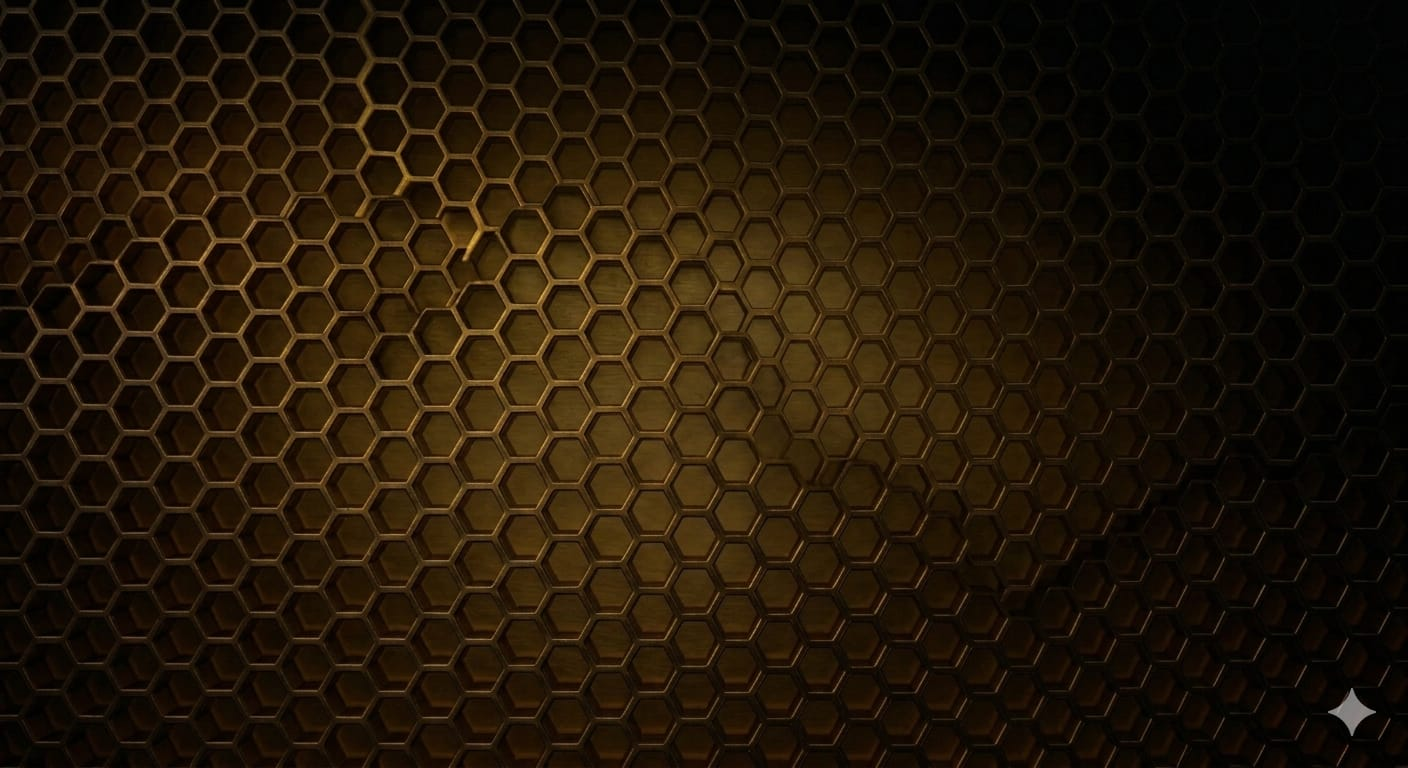
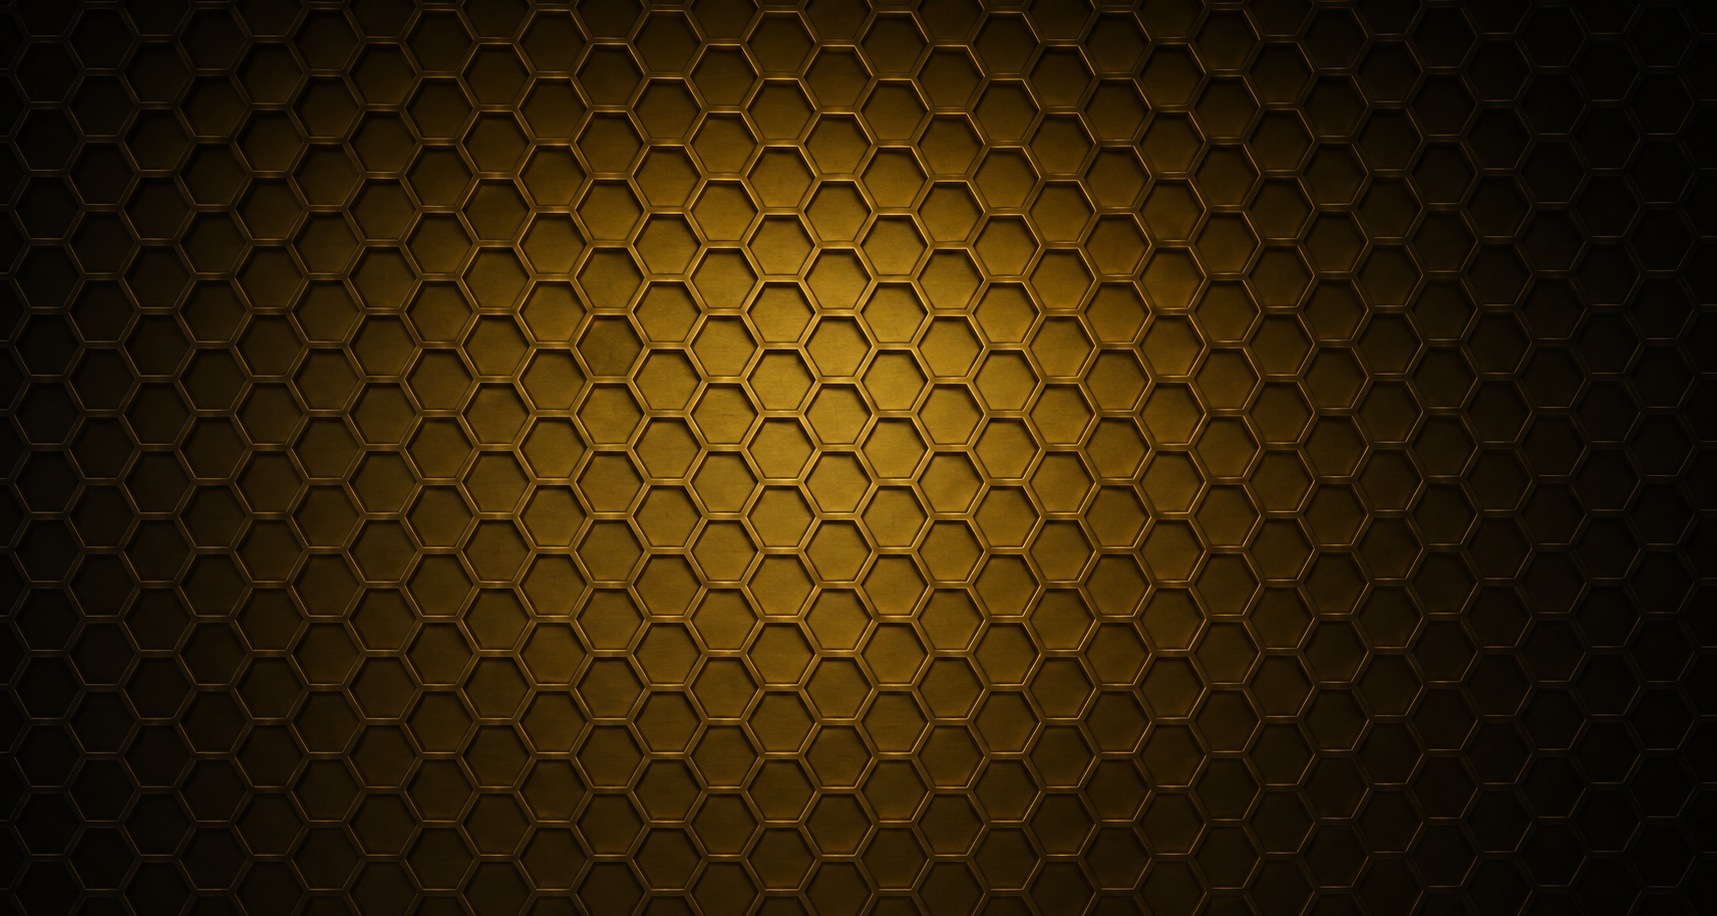
bg image changes

diff --git a/wholesale.html b/wholesale.html
@@ -191,11 +191,11 @@
 
                         <div class="shola-size-list">
 
-                            <span>250 ml</span>
+                            <span>250 g</span>
 
-                            <span>500 ml</span>
+                            <span>500 g</span>
 
-                            <span>1 L</span>
+                            <span>1 Kg</span>
 
                         </div>
 

diff --git a/css/style.css b/css/style.css
@@ -9088,5 +9088,7 @@ input[type="radio"].shola-check { border-radius: 50%; }
     }
 }
 
-
+.nav-gift-toggle a {
+    font-size: 12px !important;
+}
 
